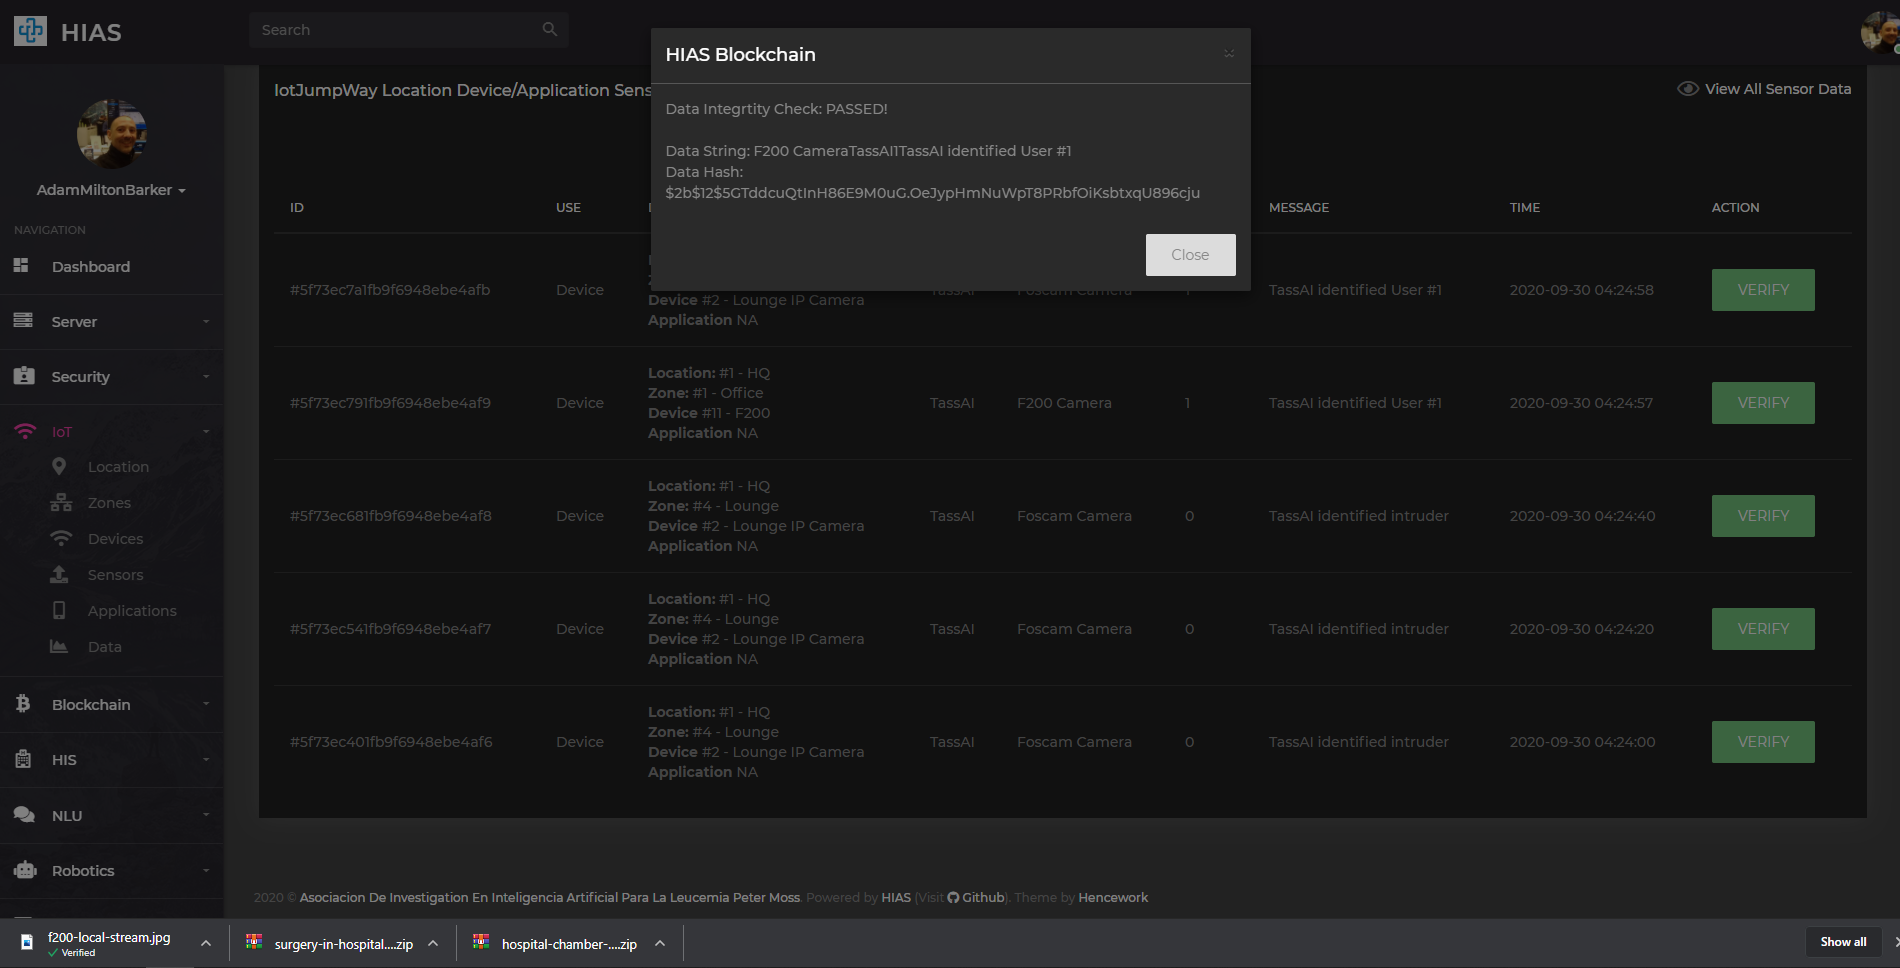
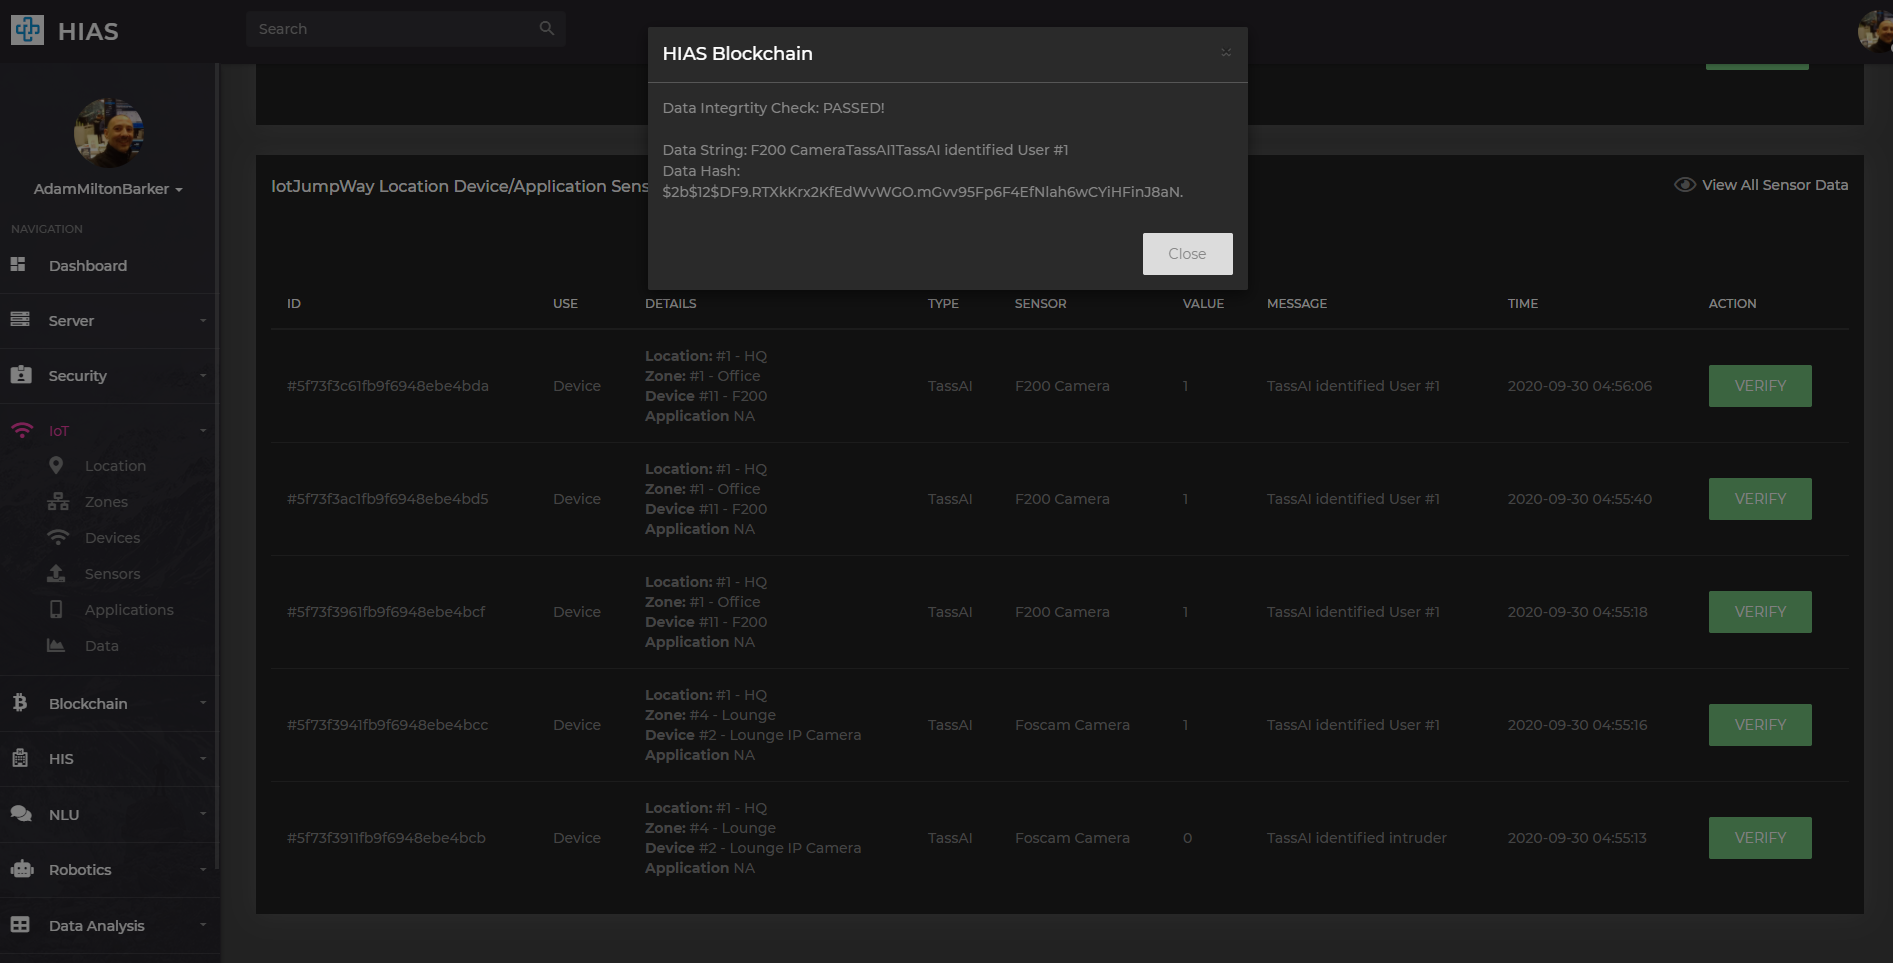
0.0.0 UP2 NCS1 Realsense F200

diff --git a/UP2/NCS1/Realsense/F200/README.md b/UP2/NCS1/Realsense/F200/README.md
@@ -269,37 +269,36 @@ To make sure that your server is responding correctly use the following command:
 You should see the following output:
 
 ```
-2020-09-30 02:22:27,315 - Camera - INFO - Helpers class initialization complete.
-2020-09-30 02:22:27,316 - iotJumpWay - INFO - Helpers class initialization complete.
-2020-09-30 02:22:27,316 - iotJumpWay - INFO - Initiating Local iotJumpWay Device.
-2020-09-30 02:22:27,317 - iotJumpWay - INFO - JumpWayMQTT Device Initiated.
-2020-09-30 02:22:27,317 - iotJumpWay - INFO - Initiating Local iotJumpWay Device Connection.
-2020-09-30 02:22:27,345 - iotJumpWay - INFO - Local iotJumpWay Device Connection Initiated.
-2020-09-30 02:22:27,346 - iotJumpWay - INFO - -- Subscribed to Device Commands Channel
-2020-09-30 02:22:27,350 - Sockets - INFO - Helpers class initialization complete.
-2020-09-30 02:22:27,350 - Sockets - INFO - Socket Helper Class initialization complete.
-2020-09-30 02:22:27,350 - Camera - INFO - F200 Class initialization complete.
-2020-09-30 02:22:27,354 - Sockets - INFO - Subscribed to socket: tcp://localhost:8181
-2020-09-30 02:22:27,356 - Camera - INFO - Camera server started on ###.###.#.##:8080
-2020-09-30 02:22:27,356 - TassAI - INFO - Helpers class initialization complete.
-2020-09-30 02:22:27,357 - TassAI - INFO - TassAI class initialized.
-2020-09-30 02:22:27,358 - NCS1 - INFO - Helpers class initialization complete.
-2020-09-30 02:22:28,469 - iotJumpWay - INFO - Local iotJumpWay Device Connection Successful.
-2020-09-30 02:22:30,052 - iotJumpWay - INFO - rc: 0
-2020-09-30 02:22:30,054 - iotJumpWay - INFO - Published to Device Status 1/Devices/1/11/Status
-2020-09-30 02:22:30,054 - iotJumpWay - INFO - JumpWayMQTT Subscription: 1
-2020-09-30 02:22:30,055 - iotJumpWay - INFO - -- Published to Device channel
-2020-09-30 02:22:31,047 - NCS1 - INFO - Connected to Neural Compute Stick 1
-2020-09-30 02:22:31,083 - NCS1 - INFO - Loaded NCS1 graph
-2020-09-30 02:22:31,403 - NCS1 - INFO - Known data preprocessed!
-2020-09-30 02:22:31,404 - NCS1 - INFO - NCS1 class initialized.
-2020-09-30 02:22:31,404 - TassAI - INFO - NCS1 configured.
-2020-09-30 02:22:31,406 - Sockets - INFO - Started & connected to socket server: tcp://localhost:8181
-2020-09-30 02:22:32,985 - NCS1 - INFO - Calculated Match: 0.6689949035644531
-2020-09-30 02:22:32,986 - NCS1 - INFO - TassAI identified User #1
-2020-09-30 02:22:32,987 - iotJumpWay - INFO - -- Published to Device channel
-2020-09-30 02:22:32,989 - iotJumpWay - INFO - -- Published to Device channel
-
+2020-09-30 02:53:36,977 - Camera - INFO - Helpers class initialization complete.
+2020-09-30 02:53:36,978 - iotJumpWay - INFO - Helpers class initialization complete.
+2020-09-30 02:53:36,979 - iotJumpWay - INFO - Initiating Local iotJumpWay Device.
+2020-09-30 02:53:36,979 - iotJumpWay - INFO - JumpWayMQTT Device Initiated.
+2020-09-30 02:53:36,979 - iotJumpWay - INFO - Initiating Local iotJumpWay Device Connection.
+2020-09-30 02:53:37,057 - iotJumpWay - INFO - Local iotJumpWay Device Connection Initiated.
+2020-09-30 02:53:37,058 - iotJumpWay - INFO - -- Subscribed to Device Commands Channel
+2020-09-30 02:53:37,060 - Sockets - INFO - Helpers class initialization complete.
+2020-09-30 02:53:37,062 - Sockets - INFO - Socket Helper Class initialization complete.
+2020-09-30 02:53:37,062 - Camera - INFO - F200 Class initialization complete.
+2020-09-30 02:53:37,068 - Sockets - INFO - Subscribed to socket: tcp://localhost:8181
+2020-09-30 02:53:37,068 - TassAI - INFO - Helpers class initialization complete.
+2020-09-30 02:53:37,069 - TassAI - INFO - TassAI class initialized.
+2020-09-30 02:53:37,071 - NCS1 - INFO - Helpers class initialization complete.
+2020-09-30 02:53:38,194 - iotJumpWay - INFO - Local iotJumpWay Device Connection Successful.
+2020-09-30 02:53:38,195 - Camera - INFO - Camera server started on ###.###.##.##:8080
+2020-09-30 02:53:39,770 - iotJumpWay - INFO - rc: 0
+2020-09-30 02:53:39,771 - iotJumpWay - INFO - Published to Device Status 1/Devices/1/11/Status
+2020-09-30 02:53:39,772 - iotJumpWay - INFO - JumpWayMQTT Subscription: 1
+2020-09-30 02:53:39,772 - iotJumpWay - INFO - -- Published to Device channel
+2020-09-30 02:53:40,754 - NCS1 - INFO - Connected to Neural Compute Stick 1
+2020-09-30 02:53:40,791 - NCS1 - INFO - Loaded NCS1 graph
+2020-09-30 02:53:41,110 - NCS1 - INFO - Known data preprocessed!
+2020-09-30 02:53:41,111 - NCS1 - INFO - NCS1 class initialized.
+2020-09-30 02:53:41,111 - TassAI - INFO - NCS1 configured.
+2020-09-30 02:53:41,113 - Sockets - INFO - Started & connected to socket server: tcp://localhost:8181
+2020-09-30 02:53:43,046 - NCS1 - INFO - Calculated Match: 0.6809008717536926
+2020-09-30 02:53:43,047 - NCS1 - INFO - TassAI identified User #1
+2020-09-30 02:53:43,049 - iotJumpWay - INFO - -- Published to Device channel
+2020-09-30 02:53:43,051 - iotJumpWay - INFO - -- Published to Device channel
 ```
 
 Now visit URL replacing the values as expected: **http://YourUp2Ip:YourPort/YourStreamFile**.
